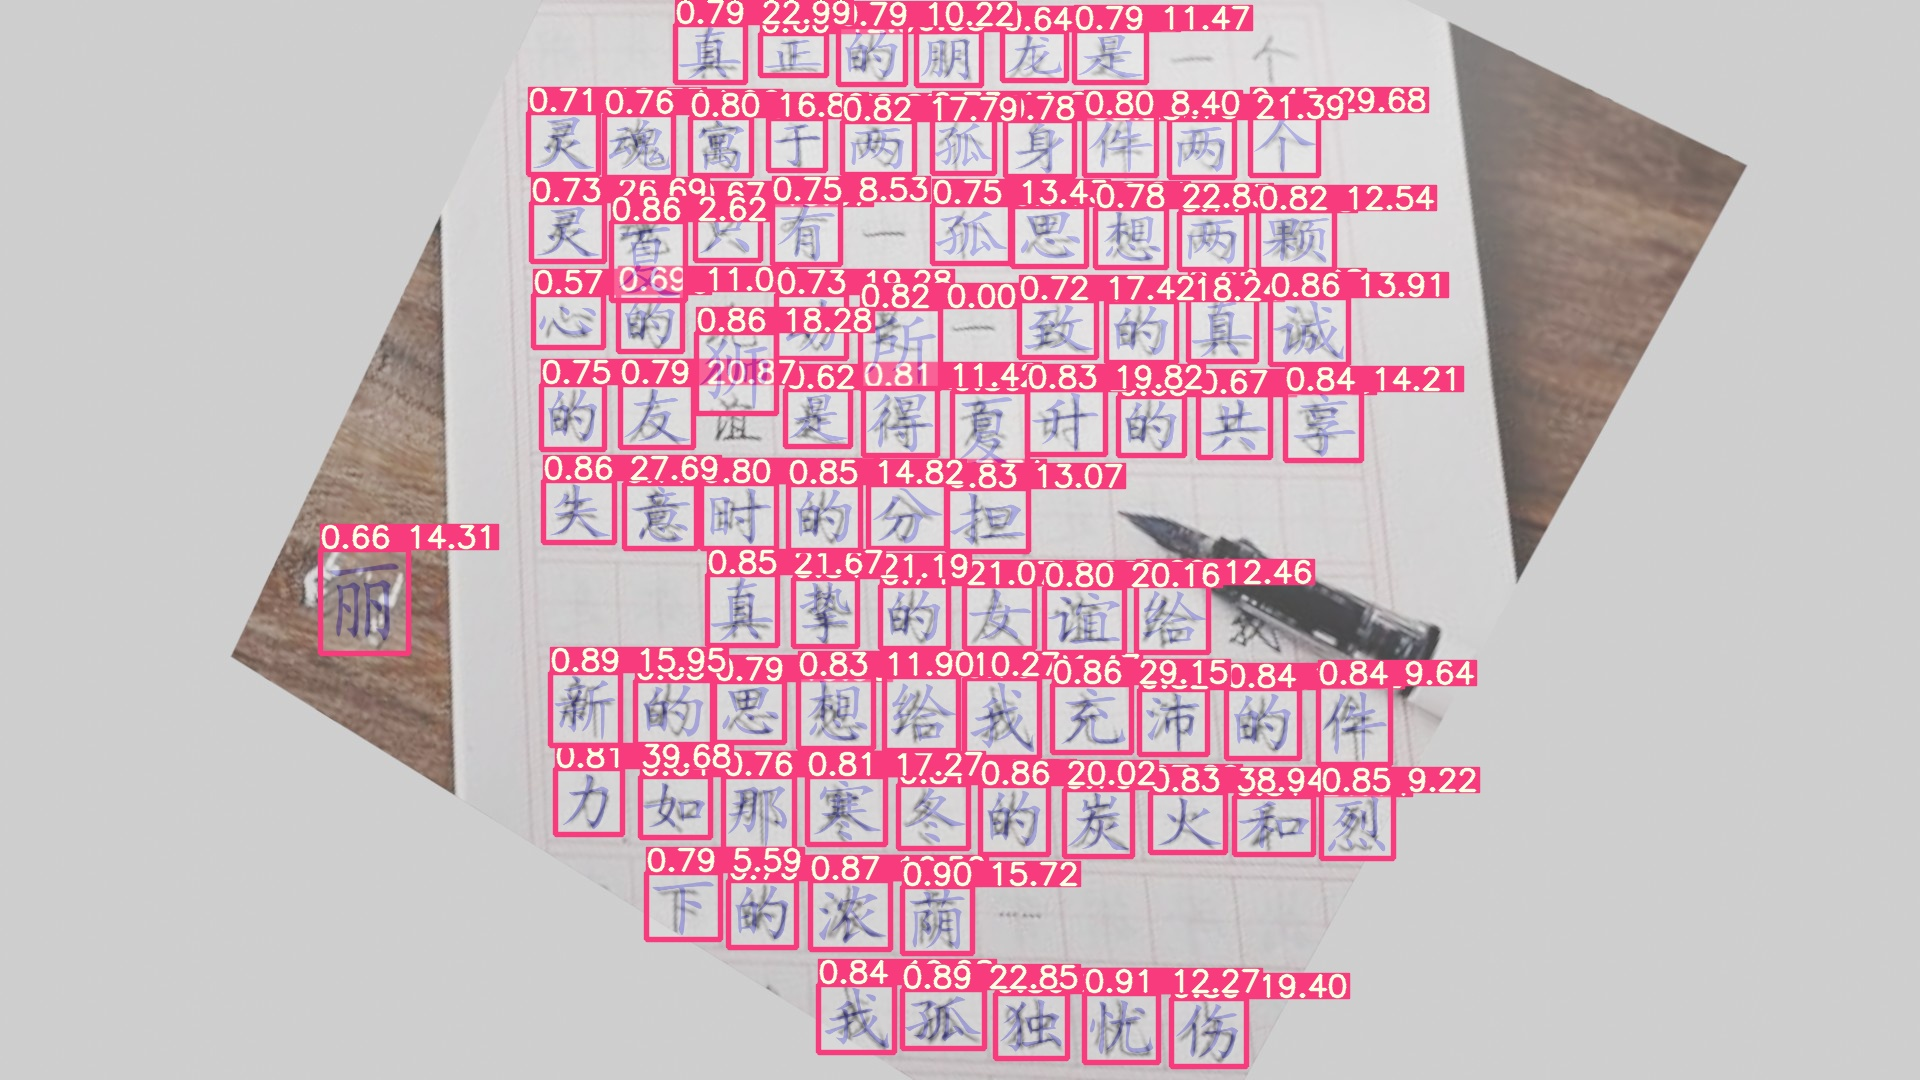
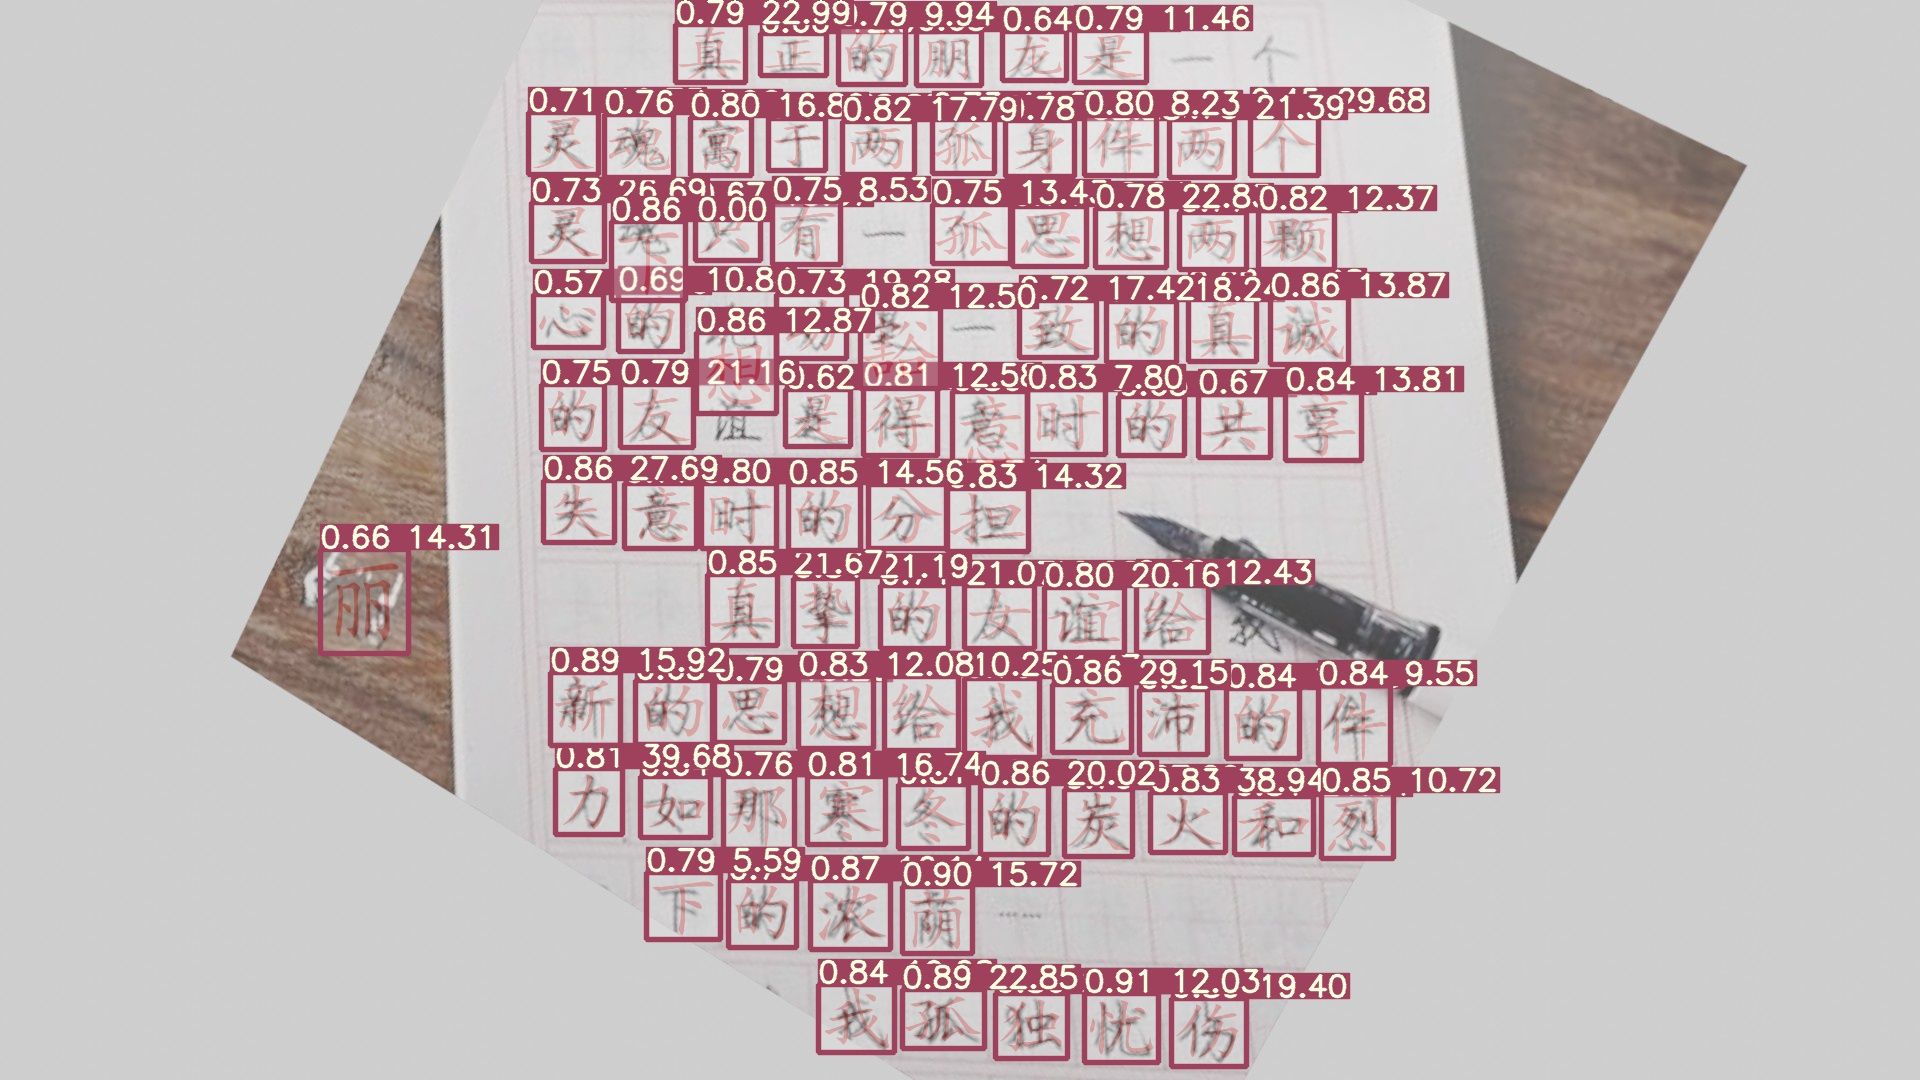
update readme

Changed region(s): [[0.1562, 0.0, 0.7812, 1.0]]

diff --git a/run.py b/run.py
@@ -125,7 +125,6 @@ if __name__ == '__main__':
     parser.add_argument('--classes', nargs='+', type=int, help='filter by class: --class 0, or --class 0 2 3')
     parser.add_argument('--agnostic-nms', action='store_true', help='class-agnostic NMS')
     parser.add_argument('--augment', action='store_true', help='augmented inference')
-    parser.add_argument('--update', action='store_true', help='update all models')
     parser.add_argument('--project', default='runs/detect', help='save results to project/name')
     parser.add_argument('--name', default='exp', help='save results to project/name')
     parser.add_argument('--exist-ok', action='store_true', help='existing project/name ok, do not increment')

diff --git a/single_word/utils.py b/single_word/utils.py
@@ -129,7 +129,8 @@ class Tools():
         score = self.get_score(src, ch)
 
         # create normal
-        normal = self.get_normal(ch, 'red', 'white')
+        # normal = self.get_normal(ch, 'red', 'white')
+        normal = self.get_normal(ch, 'blue', 'white') # RGB to BGR, blue shows like red
         normal = np.array(normal)
         # get visual result
         result = Image.fromarray(cv2.addWeighted(normal, 0.2, ori, 0.8, 0))

diff --git a/README.md b/README.md
@@ -42,4 +42,6 @@ Box coordinates are in normalized xywh format (from 0 - 1).
 # Result
 |original|processed|
 |:-:|:-:|
-|![](doc_imgs/ori.jpg)|![](runs/detect/exp/test.jpg)|
+|![](doc_imgs/ori.jpg)|![](doc_imgs/result.jpg)|
+
+The standard character will be printed to corresponding area, with a confidence and a score for each detected boxes.
